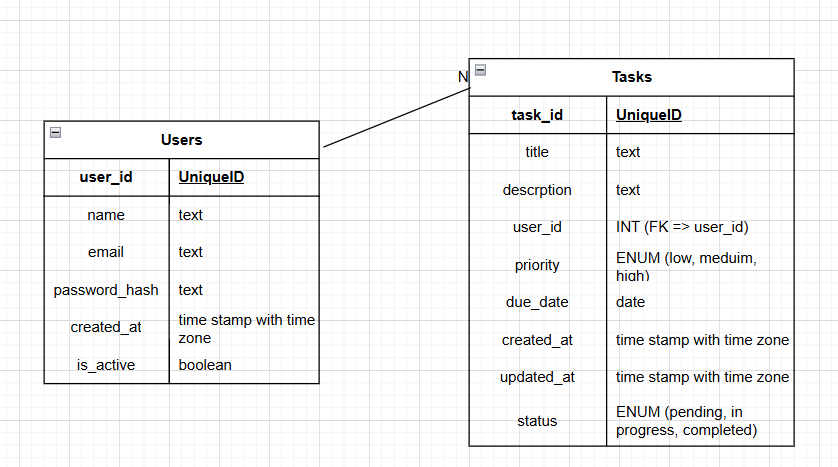
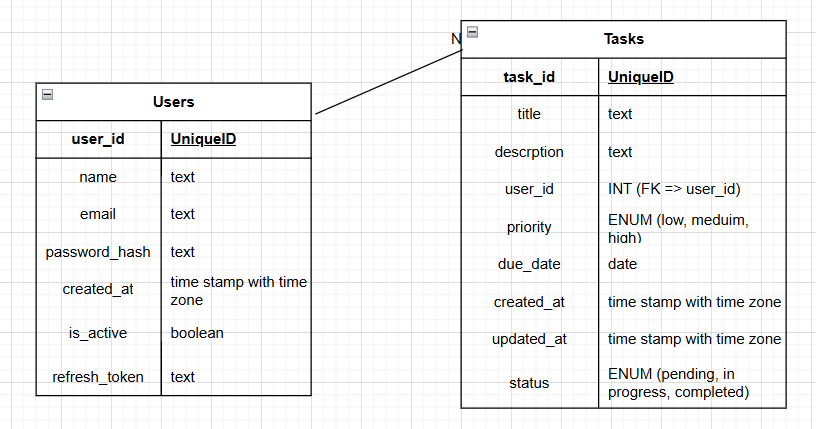
Implement refresh token

diff --git a/routes/auth.py b/routes/auth.py
@@ -48,5 +48,24 @@ def login(user_data : schemas.UserLogin, db : Session = Depends(models.get_db)):
     if not utils.verify_password(user_data.password, user.password_hash):
         raise HTTPException(status_code=status.HTTP_401_UNAUTHORIZED, detail="Invalid credentials")
     access_token = oauth2.create_access_token({"user_id": user.user_id})
-    return {"access_token": access_token}
+    refresh_token = oauth2.create_refresh_token({"user_id": user.user_id})
+    user.refresh_token = refresh_token
+    db.commit()
+    return {"access_token": access_token, "refresh_token": refresh_token}
 
+
+@router.post("/refresh")
+def create_new_access_token(token : str, db : Session = Depends(models.get_db)):
+    user_id = oauth2.verify_refresh_token(token)
+    user = db.get(models.User, user_id)
+    if user.refresh_token != token:
+        raise HTTPException(status_code=status.HTTP_401_UNAUTHORIZED, detail="Invalid refresh token")
+    new_access_token = oauth2.create_access_token({"user_id": user_id})
+    return {"access_token": new_access_token}
+
+@router.put("/revoke")
+def revoke_refresh_token(db : Session = Depends(models.get_db), user_id = Depends(oauth2.get_current_user)):
+    user = db.get(models.User, user_id)
+    user.refresh_token = None
+    db.commit()
+    return {"message": "refresh token has been revoked successfully"}

diff --git a/oauth2.py b/oauth2.py
@@ -15,6 +15,7 @@ load_dotenv()
 SECRET_KEY = os.getenv("SECRET_KEY")
 ACCESS_TOKEN_EXPIRE_MINUTES = os.getenv("ACCESS_TOKEN_EXPIRE_MINUTES")
 ALGORITHM = os.getenv("ALGORITHM")
+REFRESH_TOKEN_EXPIRE_DAYS = os.getenv("REFRESH_TOKEN_EXPIRE_DAYS")
 
 oauth2_scheme = OAuth2PasswordBearer(tokenUrl="login")
 
@@ -26,6 +27,22 @@ def create_access_token(data : dict):
     access_token = jwt.encode(to_encode, SECRET_KEY, algorithm=ALGORITHM)
     return access_token
 
+def create_refresh_token(data : dict):
+    to_encode = data.copy()
+    expire = datetime.utcnow() + timedelta(days=int(REFRESH_TOKEN_EXPIRE_DAYS))
+    to_encode.update({"exp": expire})
+    refresh_token = jwt.encode(to_encode, SECRET_KEY, algorithm=ALGORITHM)
+    return refresh_token
+
+def verify_refresh_token(token : str):
+    try:
+        payload = jwt.decode(token, SECRET_KEY, algorithms=[ALGORITHM])
+        user_id = payload.get("user_id")
+    except InvalidTokenError:
+        raise HTTPException(status_code=status.HTTP_401_UNAUTHORIZED, detail="unauthorized access")
+    except ExpiredSignatureError:
+        raise HTTPException(status_code=status.HTTP_401_UNAUTHORIZED, detail="token has been expired")
+    return user_id
 
 def verify_account(token : str):
     try:

diff --git a/models.py b/models.py
@@ -25,6 +25,7 @@ class User(SQLModel, table=True):
     name : str = Field(..., min_length=2, max_length=60)
     email : EmailStr = Field(unique=True)
     password_hash : str
+    refresh_token : str | None = Field(default=None)
     is_active : bool | None = Field(default=False) 
     created_at : datetime = Field(default_factory=datetime.utcnow)
 
